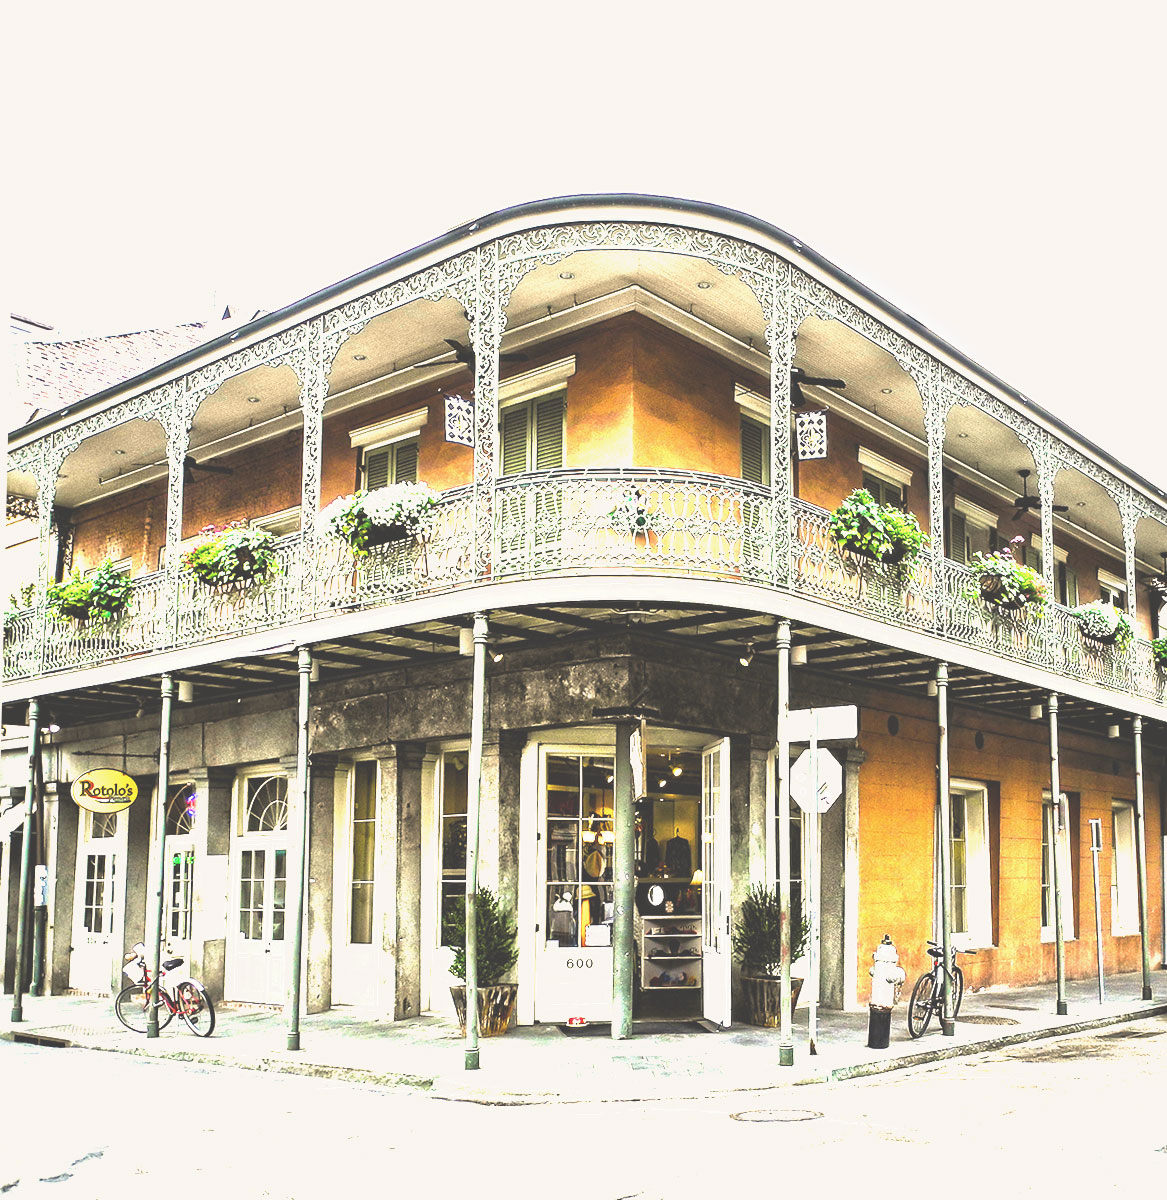
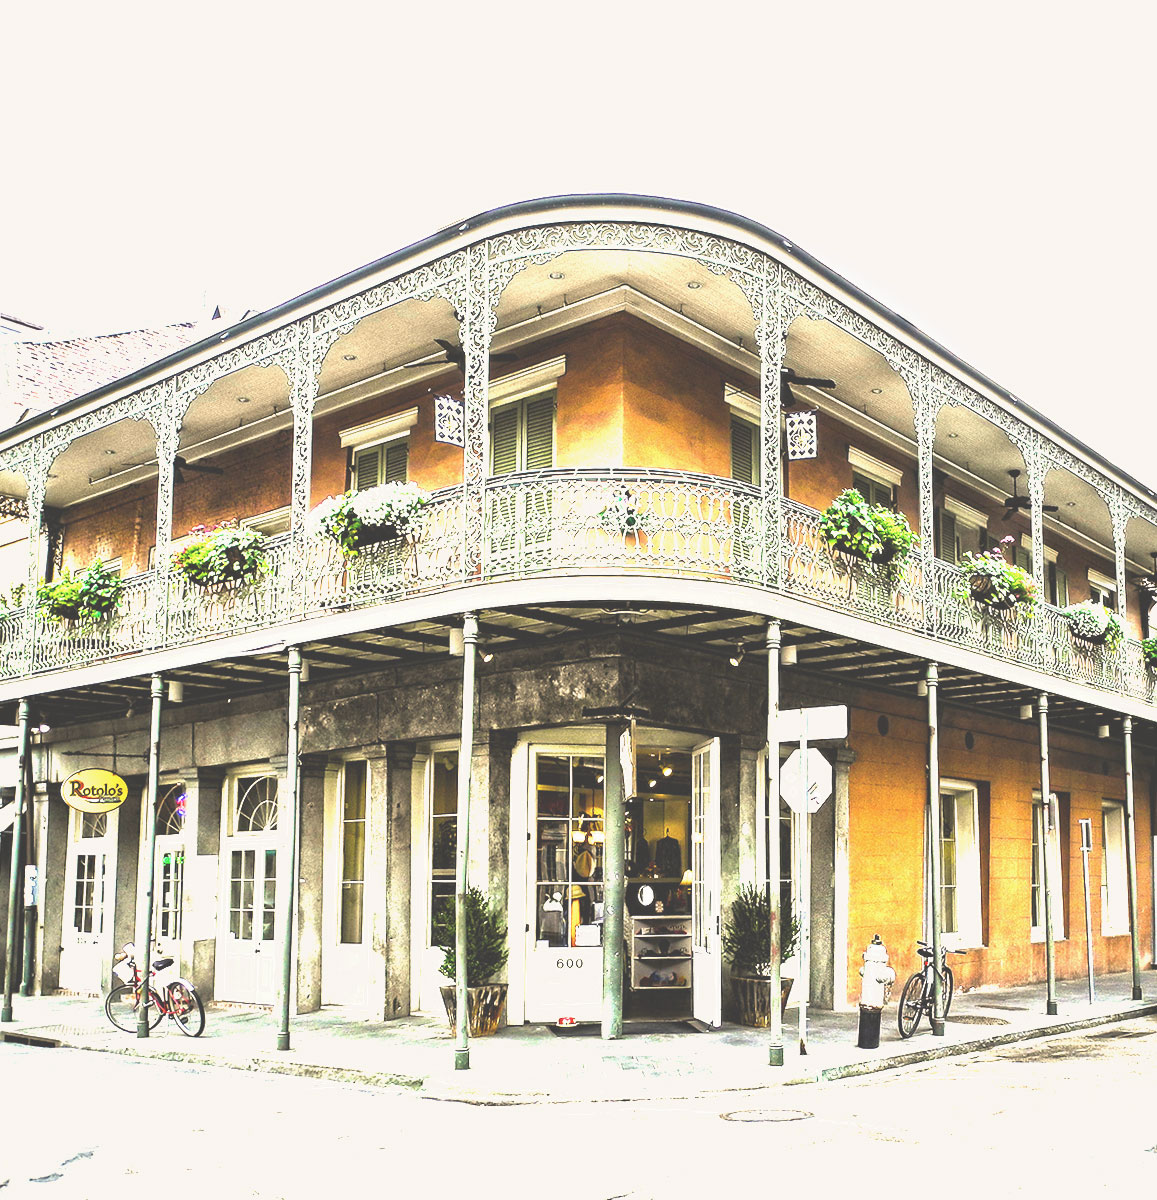
Updated portrait images

diff --git a/css/style.css b/css/style.css
@@ -107,6 +107,18 @@ p {
 	display: none;
 }
 
+@media screen and (orientation : portrait) {
+	.bkgd-1 {
+		background: url(../images/street-sign-portrait.jpg) no-repeat left bottom;
+		background-size: contain;
+	}
+
+	.bkgd-2 {
+		background: url(../images/newOrleans-building-portrait.jpg) no-repeat left bottom;
+		background-size: contain;
+	}
+}
+
 .copy-card {
     -webkit-box-shadow: 0 0 2px 2px rgba(0,0,0,.1);
     background: #fff;
